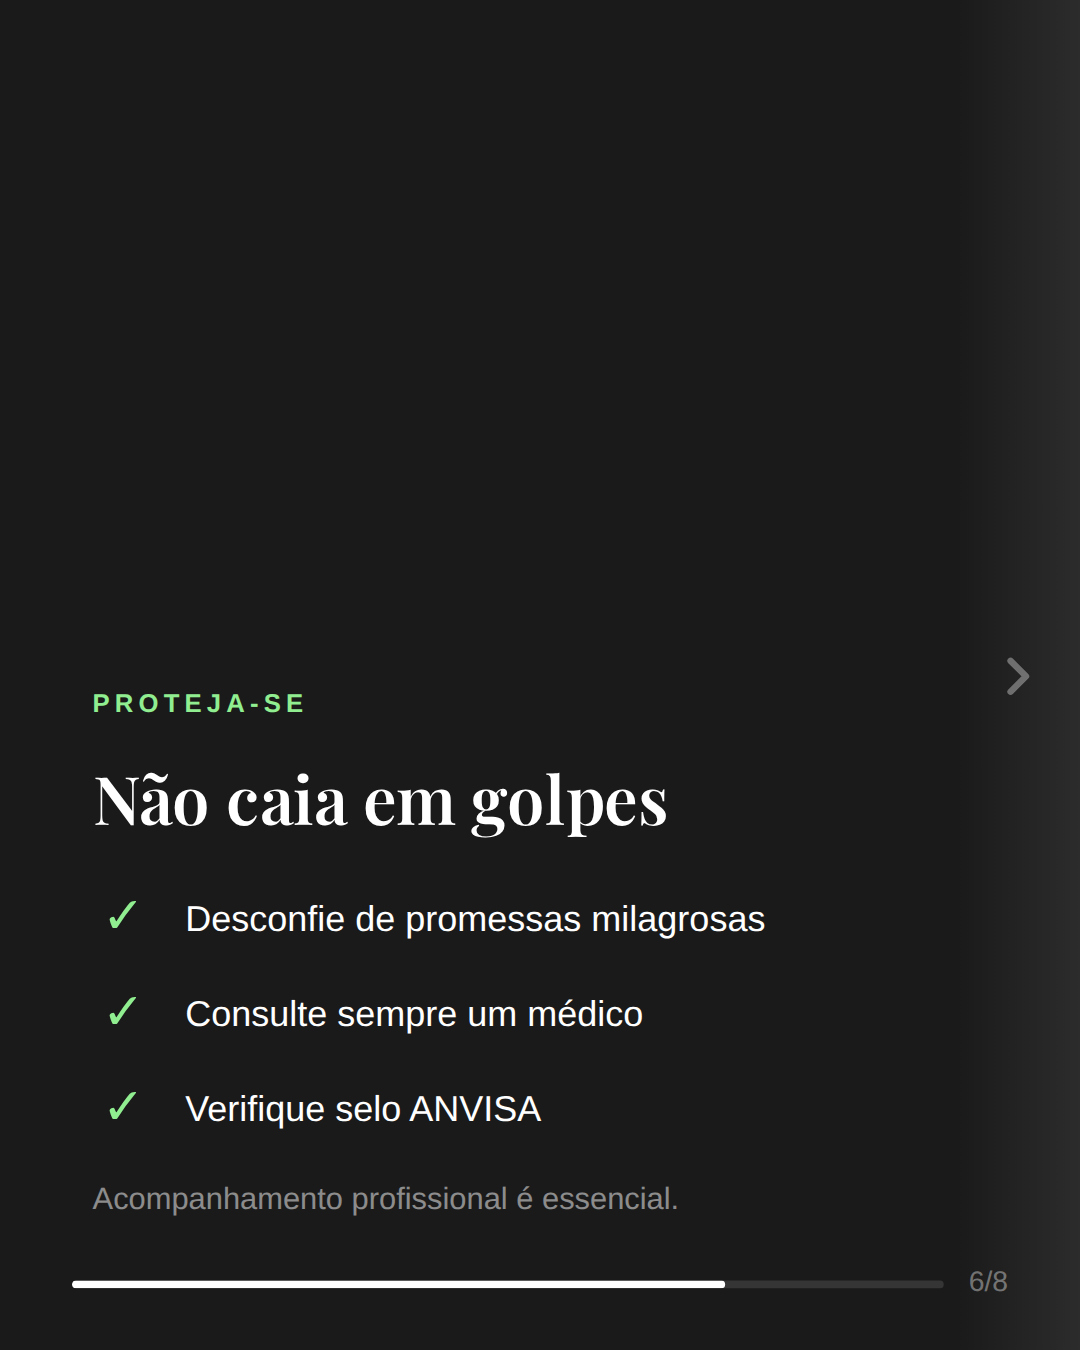
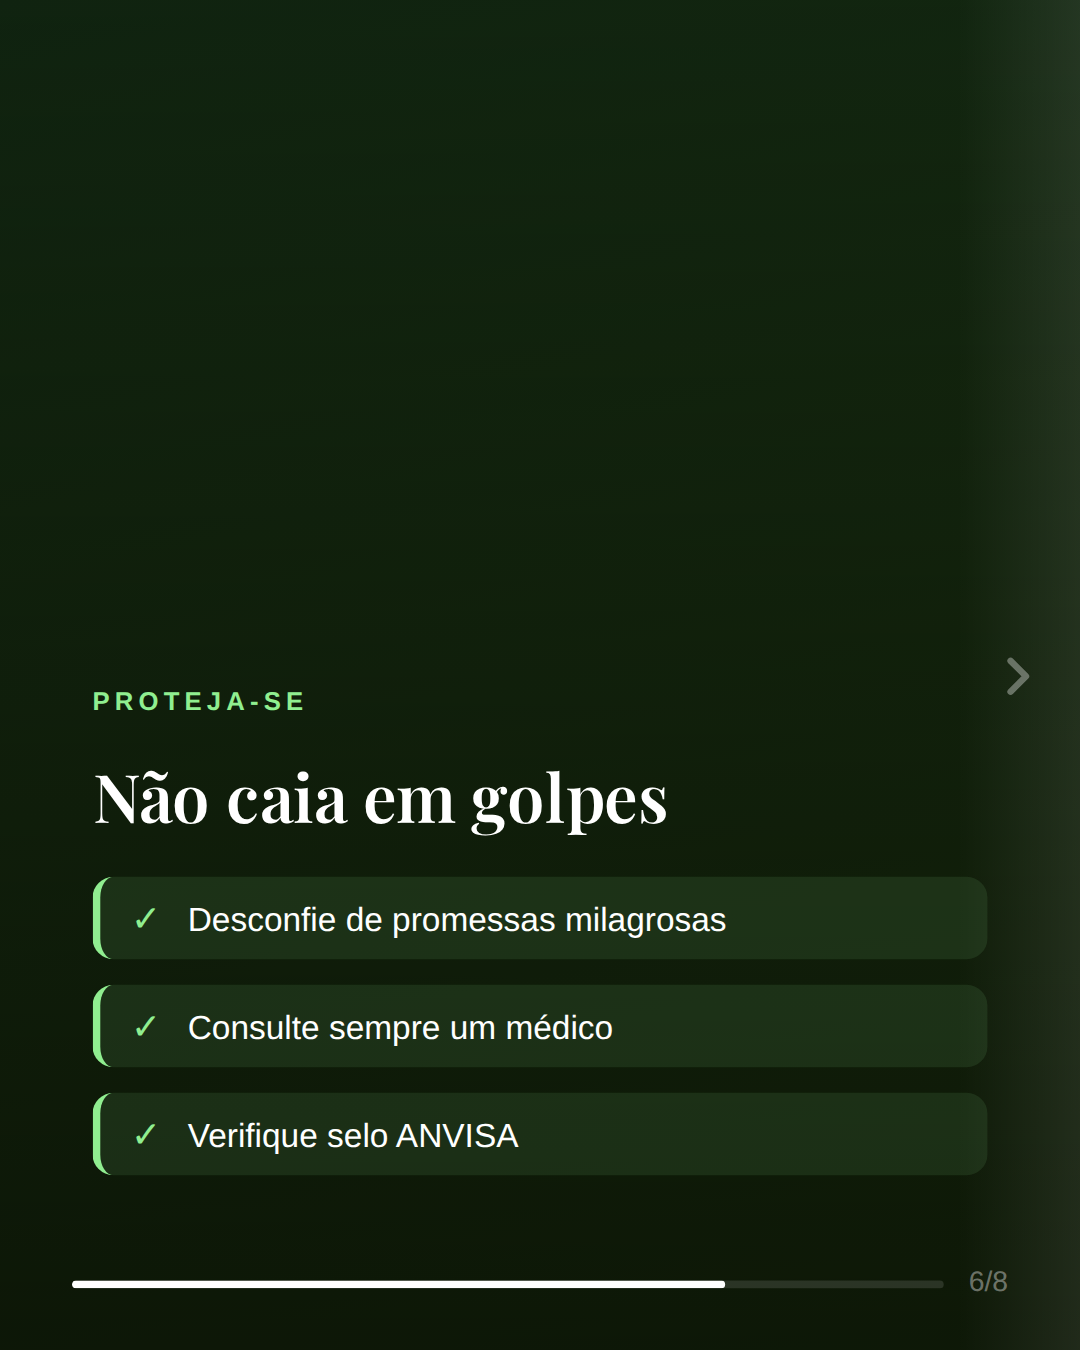
fix: alinhamento padronizado em todos os slides
- Todos com gradiente overlay e conteúdo na parte inferior
- Design consistente seguindo modelo do slide 1

diff --git a/slides/como-saber-se-caneta-e-falsa/carousel.html b/slides/como-saber-se-caneta-e-falsa/carousel.html
@@ -62,15 +62,16 @@
         </div>
 
         <!-- SLIDE 2: O PROBLEMA -->
-        <div class="slide" style="background:#1a1a1a;">
+        <div class="slide" style="background:linear-gradient(165deg, #1a1a1a 0%, #2d2020 100%);">
+          <div style="position:absolute;inset:0;background:linear-gradient(to bottom, rgba(0,0,0,0.5) 0%, rgba(0,0,0,0.8) 100%);z-index:1;"></div>
           <div style="position:relative;z-index:2;display:flex;flex-direction:column;justify-content:flex-end;height:100%;padding:0 36px 52px;">
             <span style="display:inline-block;font-size:10px;font-weight:600;letter-spacing:2px;color:#ff4444;margin-bottom:16px;">O PROBLEMA</span>
-            <div style="display:flex;align-items:center;gap:12px;padding:14px 20px;background:rgba(255,68,68,0.15);border-radius:12px;border:1px solid rgba(255,68,68,0.3);margin-bottom:16px;">
-              <div style="width:32px;height:32px;border-radius:50%;background:#c62828;display:flex;align-items:center;justify-content:center;color:#fff;font-size:18px;font-weight:700;">!</div>
-              <span style="font-size:12px;font-weight:600;letter-spacing:1px;color:#ef5350;text-transform:uppercase;">Alerta</span>
+            <h2 style="font-family:'Playfair Display',serif;font-size:28px;font-weight:600;color:#fff;line-height:1.15;margin:0 0 16px 0;">Mercado paralelo cresce 300%</h2>
+            <p style="font-family:'TT Norms',sans-serif;font-size:14px;color:rgba(255,255,255,0.8);line-height:1.5;margin:0 0 20px 0;">Falsificações circulam livremente sem controle sanitário.</p>
+            <div style="display:flex;align-items:center;gap:12px;padding:12px 16px;background:rgba(255,68,68,0.15);border-radius:10px;border:1px solid rgba(255,68,68,0.3);">
+              <span style="color:#ff4444;font-size:16px;">⚠</span>
+              <span style="font-size:13px;color:#fff;">Pacientes ingerem substâncias sem saber</span>
             </div>
-            <h2 style="font-family:'Playfair Display',serif;font-size:26px;font-weight:600;color:#fff;line-height:1.15;margin:0 0 14px 0;">Mercado paralelo cresce 300%</h2>
-            <p style="font-family:'TT Norms',sans-serif;font-size:14px;color:rgba(255,255,255,0.7);line-height:1.5;margin:0;">Falsificações circulam livremente sem controle sanitário. Pacientes ingerem substâncias sem saber o que contém.</p>
           </div>
           <div class="progress-bar">
             <div class="progress-track"><div class="progress-fill" style="width:25%;"></div></div>
@@ -81,26 +82,26 @@
           </div>
         </div>
 
-        <!-- SLIDE 3: SINAIS DE FALSIFICAÇÃO -->
-        <div class="slide" style="background:#1a1a1a;">
+        <!-- SLIDE 3: SINAIS -->
+        <div class="slide" style="background:linear-gradient(165deg, #1a1a1a 0%, #2d2020 100%);">
+          <div style="position:absolute;inset:0;background:linear-gradient(to bottom, rgba(0,0,0,0.5) 0%, rgba(0,0,0,0.8) 100%);z-index:1;"></div>
           <div style="position:relative;z-index:2;display:flex;flex-direction:column;justify-content:flex-end;height:100%;padding:0 36px 52px;">
             <span style="display:inline-block;font-size:10px;font-weight:600;letter-spacing:2px;color:#ff4444;margin-bottom:16px;">SINAIS</span>
-            <h2 style="font-family:'Playfair Display',serif;font-size:26px;font-weight:600;color:#fff;line-height:1.15;margin:0 0 18px 0;">Como identificar uma falsa</h2>
-            <div style="display:flex;flex-direction:column;gap:12px;margin-bottom:16px;">
-              <div style="display:flex;align-items:center;gap:12px;">
-                <span style="color:#ff4444;font-size:20px;width:24px;text-align:center;">✗</span>
-                <span style="font-size:14px;color:#fff;">Embalagem com erros de português</span>
+            <h2 style="font-family:'Playfair Display',serif;font-size:26px;font-weight:600;color:#fff;line-height:1.15;margin:0 0 16px 0;">Como identificar uma falsa</h2>
+            <div style="display:flex;flex-direction:column;gap:10px;margin-bottom:16px;">
+              <div style="display:flex;align-items:center;gap:10px;padding:8px 12px;background:rgba(255,68,68,0.1);border-radius:8px;border-left:3px solid #ff4444;">
+                <span style="color:#ff4444;font-size:14px;">✗</span>
+                <span style="font-size:13px;color:#fff;">Embalagem com erros</span>
               </div>
-              <div style="display:flex;align-items:center;gap:12px;">
-                <span style="color:#ff4444;font-size:20px;width:24px;text-align:center;">✗</span>
-                <span style="font-size:14px;color:#fff;">Preço muito abaixo do mercado</span>
+              <div style="display:flex;align-items:center;gap:10px;padding:8px 12px;background:rgba(255,68,68,0.1);border-radius:8px;border-left:3px solid #ff4444;">
+                <span style="color:#ff4444;font-size:14px;">✗</span>
+                <span style="font-size:13px;color:#fff;">Preço muito abaixo</span>
               </div>
-              <div style="display:flex;align-items:center;gap:12px;">
-                <span style="color:#ff4444;font-size:20px;width:24px;text-align:center;">✗</span>
-                <span style="font-size:14px;color:#fff;">Vendedor sem CNPJ ou nota fiscal</span>
+              <div style="display:flex;align-items:center;gap:10px;padding:8px 12px;background:rgba(255,68,68,0.1);border-radius:8px;border-left:3px solid #ff4444;">
+                <span style="color:#ff4444;font-size:14px;">✗</span>
+                <span style="font-size:13px;color:#fff;">Sem CNPJ ou nota fiscal</span>
               </div>
             </div>
-            <p style="font-size:12px;color:rgba(255,255,255,0.5);margin:0;">Desconfie de ofertas suspeitas.</p>
           </div>
           <div class="progress-bar">
             <div class="progress-track"><div class="progress-fill" style="width:37.5%;"></div></div>
@@ -112,19 +113,15 @@
         </div>
 
         <!-- SLIDE 4: ONDE COMPRAR -->
-        <div class="slide" style="background:linear-gradient(165deg, #2d5016 0%, #4a7c1e 100%);">
+        <div class="slide" style="background:linear-gradient(165deg, #1a3a1a 0%, #2d5016 100%);">
+          <div style="position:absolute;inset:0;background:linear-gradient(to bottom, rgba(0,0,0,0.4) 0%, rgba(0,0,0,0.7) 100%);z-index:1;"></div>
           <div style="position:relative;z-index:2;display:flex;flex-direction:column;justify-content:flex-end;height:100%;padding:0 36px 52px;">
             <span style="display:inline-block;font-size:10px;font-weight:600;letter-spacing:2px;color:#90ee90;margin-bottom:16px;">ONDE COMPRAR</span>
-            <h2 style="font-family:'Playfair Display',serif;font-size:28px;font-weight:600;color:#fff;line-height:1.15;margin:0 0 20px 0;">Apenas em farmácias</h2>
-            <div style="display:flex;align-items:center;gap:16px;margin-bottom:16px;">
-              <span style="font-size:48px;">💊</span>
-              <div>
-                <p style="font-size:16px;color:#fff;font-weight:600;margin:0 0 4px 0;">Farmácias de rede</p>
-                <p style="font-size:13px;color:rgba(255,255,255,0.7);margin:0;">Exija nota fiscal sempre</p>
-              </div>
-            </div>
-            <div style="padding:16px;background:rgba(255,255,255,0.1);border-radius:10px;border:1px solid rgba(255,255,255,0.2);">
-              <p style="font-size:13px;color:#fff;margin:0;">Prescrição médica obrigatória para compra legal.</p>
+            <h2 style="font-family:'Playfair Display',serif;font-size:28px;font-weight:600;color:#fff;line-height:1.15;margin:0 0 16px 0;">Apenas em farmácias</h2>
+            <p style="font-family:'TT Norms',sans-serif;font-size:14px;color:rgba(255,255,255,0.8);line-height:1.5;margin:0 0 16px 0;">Exija sempre nota fiscal e prescrição médica.</p>
+            <div style="display:flex;align-items:center;gap:12px;padding:12px 16px;background:rgba(144,238,144,0.15);border-radius:10px;border:1px solid rgba(144,238,144,0.3);">
+              <span style="font-size:20px;">💊</span>
+              <span style="font-size:13px;color:#90ee90;font-weight:600;">Farmácias de rede</span>
             </div>
           </div>
           <div class="progress-bar">
@@ -137,21 +134,21 @@
         </div>
 
         <!-- SLIDE 5: RISCOS -->
-        <div class="slide" style="background:#1a1a1a;">
+        <div class="slide" style="background:linear-gradient(165deg, #2d2020 0%, #4a1a1a 100%);">
+          <div style="position:absolute;inset:0;background:linear-gradient(to bottom, rgba(0,0,0,0.5) 0%, rgba(0,0,0,0.8) 100%);z-index:1;"></div>
           <div style="position:relative;z-index:2;display:flex;flex-direction:column;justify-content:flex-end;height:100%;padding:0 36px 52px;">
             <span style="display:inline-block;font-size:10px;font-weight:600;letter-spacing:2px;color:#ff4444;margin-bottom:16px;">RISCOS</span>
-            <h2 style="font-family:'Playfair Display',serif;font-size:28px;font-weight:600;color:#fff;line-height:1.15;margin:0 0 20px 0;">Perigos reais</h2>
-            <div style="display:flex;flex-direction:column;gap:14px;margin-bottom:16px;">
-              <div style="padding:14px;background:rgba(255,68,68,0.15);border-radius:10px;border:1px solid rgba(255,68,68,0.3);">
+            <h2 style="font-family:'Playfair Display',serif;font-size:28px;font-weight:600;color:#fff;line-height:1.15;margin:0 0 16px 0;">Perigos reais</h2>
+            <div style="display:flex;flex-direction:column;gap:10px;margin-bottom:16px;">
+              <div style="padding:12px 16px;background:rgba(255,68,68,0.15);border-radius:10px;border-left:3px solid #ff4444;">
                 <p style="font-size:14px;color:#ff4444;font-weight:600;margin:0 0 4px 0;">Toxicidade</p>
-                <p style="font-size:12px;color:rgba(255,255,255,0.6);margin:0;">Substâncias não testadas ou contaminadas</p>
+                <p style="font-size:12px;color:rgba(255,255,255,0.7);margin:0;">Substâncias não testadas</p>
               </div>
-              <div style="padding:14px;background:rgba(255,68,68,0.15);border-radius:10px;border:1px solid rgba(255,68,68,0.3);">
+              <div style="padding:12px 16px;background:rgba(255,68,68,0.15);border-radius:10px;border-left:3px solid #ff4444;">
                 <p style="font-size:14px;color:#ff4444;font-weight:600;margin:0 0 4px 0;">Dosagem errada</p>
-                <p style="font-size:12px;color:rgba(255,255,255,0.6);margin:0;">Efeitos colaterais graves e imprevisíveis</p>
+                <p style="font-size:12px;color:rgba(255,255,255,0.7);margin:0;">Efeitos colaterais graves</p>
               </div>
             </div>
-            <p style="font-size:12px;color:rgba(255,255,255,0.5);margin:0;">Sua saúde não tem preço.</p>
           </div>
           <div class="progress-bar">
             <div class="progress-track"><div class="progress-fill" style="width:62.5%;"></div></div>
@@ -162,26 +159,26 @@
           </div>
         </div>
 
-        <!-- SLIDE 6: DICAS DE PROTEÇÃO -->
-        <div class="slide" style="background:#1a1a1a;">
+        <!-- SLIDE 6: DICAS -->
+        <div class="slide" style="background:linear-gradient(165deg, #1a3a1a 0%, #2d5016 100%);">
+          <div style="position:absolute;inset:0;background:linear-gradient(to bottom, rgba(0,0,0,0.4) 0%, rgba(0,0,0,0.7) 100%);z-index:1;"></div>
           <div style="position:relative;z-index:2;display:flex;flex-direction:column;justify-content:flex-end;height:100%;padding:0 36px 52px;">
             <span style="display:inline-block;font-size:10px;font-weight:600;letter-spacing:2px;color:#90ee90;margin-bottom:16px;">PROTEJA-SE</span>
-            <h2 style="font-family:'Playfair Display',serif;font-size:26px;font-weight:600;color:#fff;line-height:1.15;margin:0 0 18px 0;">Não caia em golpes</h2>
-            <div style="display:flex;flex-direction:column;gap:12px;margin-bottom:16px;">
-              <div style="display:flex;align-items:center;gap:12px;">
-                <span style="color:#90ee90;font-size:20px;width:24px;text-align:center;">✓</span>
-                <span style="font-size:14px;color:#fff;">Desconfie de promessas milagrosas</span>
+            <h2 style="font-family:'Playfair Display',serif;font-size:26px;font-weight:600;color:#fff;line-height:1.15;margin:0 0 16px 0;">Não caia em golpes</h2>
+            <div style="display:flex;flex-direction:column;gap:10px;margin-bottom:16px;">
+              <div style="display:flex;align-items:center;gap:10px;padding:8px 12px;background:rgba(144,238,144,0.1);border-radius:8px;border-left:3px solid #90ee90;">
+                <span style="color:#90ee90;font-size:14px;">✓</span>
+                <span style="font-size:13px;color:#fff;">Desconfie de promessas milagrosas</span>
               </div>
-              <div style="display:flex;align-items:center;gap:12px;">
-                <span style="color:#90ee90;font-size:20px;width:24px;text-align:center;">✓</span>
-                <span style="font-size:14px;color:#fff;">Consulte sempre um médico</span>
+              <div style="display:flex;align-items:center;gap:10px;padding:8px 12px;background:rgba(144,238,144,0.1);border-radius:8px;border-left:3px solid #90ee90;">
+                <span style="color:#90ee90;font-size:14px;">✓</span>
+                <span style="font-size:13px;color:#fff;">Consulte sempre um médico</span>
               </div>
-              <div style="display:flex;align-items:center;gap:12px;">
-                <span style="color:#90ee90;font-size:20px;width:24px;text-align:center;">✓</span>
-                <span style="font-size:14px;color:#fff;">Verifique selo ANVISA</span>
+              <div style="display:flex;align-items:center;gap:10px;padding:8px 12px;background:rgba(144,238,144,0.1);border-radius:8px;border-left:3px solid #90ee90;">
+                <span style="color:#90ee90;font-size:14px;">✓</span>
+                <span style="font-size:13px;color:#fff;">Verifique selo ANVISA</span>
               </div>
             </div>
-            <p style="font-size:12px;color:rgba(255,255,255,0.5);margin:0;">Acompanhamento profissional é essencial.</p>
           </div>
           <div class="progress-bar">
             <div class="progress-track"><div class="progress-fill" style="width:75%;"></div></div>
@@ -194,14 +191,15 @@
 
         <!-- SLIDE 7: SOLUÇÃO -->
         <div class="slide" style="background:linear-gradient(165deg, #1a3a5c 0%, #2d5a87 100%);">
-          <div style="position:relative;z-index:2;display:flex;flex-direction:column;justify-content:center;height:100%;padding:0 36px;">
+          <div style="position:absolute;inset:0;background:linear-gradient(to bottom, rgba(0,0,0,0.4) 0%, rgba(0,0,0,0.7) 100%);z-index:1;"></div>
+          <div style="position:relative;z-index:2;display:flex;flex-direction:column;justify-content:flex-end;height:100%;padding:0 36px 52px;">
             <span style="display:inline-block;font-size:10px;font-weight:600;letter-spacing:2px;color:#87ceeb;margin-bottom:16px;">SOLUÇÃO</span>
-            <h2 style="font-family:'Playfair Display',serif;font-size:28px;font-weight:600;color:#fff;line-height:1.15;margin:0 0 20px 0;">Acompanhamento profissional</h2>
-            <div style="padding:20px;background:rgba(135,206,235,0.1);border-radius:12px;border:1px solid rgba(135,206,235,0.3);margin-bottom:16px;">
-              <p style="font-size:14px;color:#fff;margin:0 0 8px 0;font-style:italic;">"O uso correto exige prescrição e monitoramento adequado"</p>
-              <p style="font-size:12px;color:rgba(255,255,255,0.7);margin:0;">— Verônica Bomfim, Nutricionista</p>
+            <h2 style="font-family:'Playfair Display',serif;font-size:28px;font-weight:600;color:#fff;line-height:1.15;margin:0 0 16px 0;">Acompanhamento profissional</h2>
+            <p style="font-family:'TT Norms',sans-serif;font-size:14px;color:rgba(255,255,255,0.8);line-height:1.5;margin:0 0 16px 0;">"O uso correto exige prescrição e monitoramento adequado"</p>
+            <div style="display:flex;align-items:center;gap:12px;padding:12px 16px;background:rgba(135,206,235,0.15);border-radius:10px;border:1px solid rgba(135,206,235,0.3);">
+              <span style="font-size:20px;">👩⚕</span>
+              <span style="font-size:13px;color:#87ceeb;font-weight:600;">Verônica Bomfim, Nutricionista</span>
             </div>
-            <p style="font-size:13px;color:rgba(255,255,255,0.8);line-height:1.5;margin:0;">Agende sua consulta e tenha segurança no tratamento.</p>
           </div>
           <div class="progress-bar">
             <div class="progress-track"><div class="progress-fill" style="width:87.5%;"></div></div>
